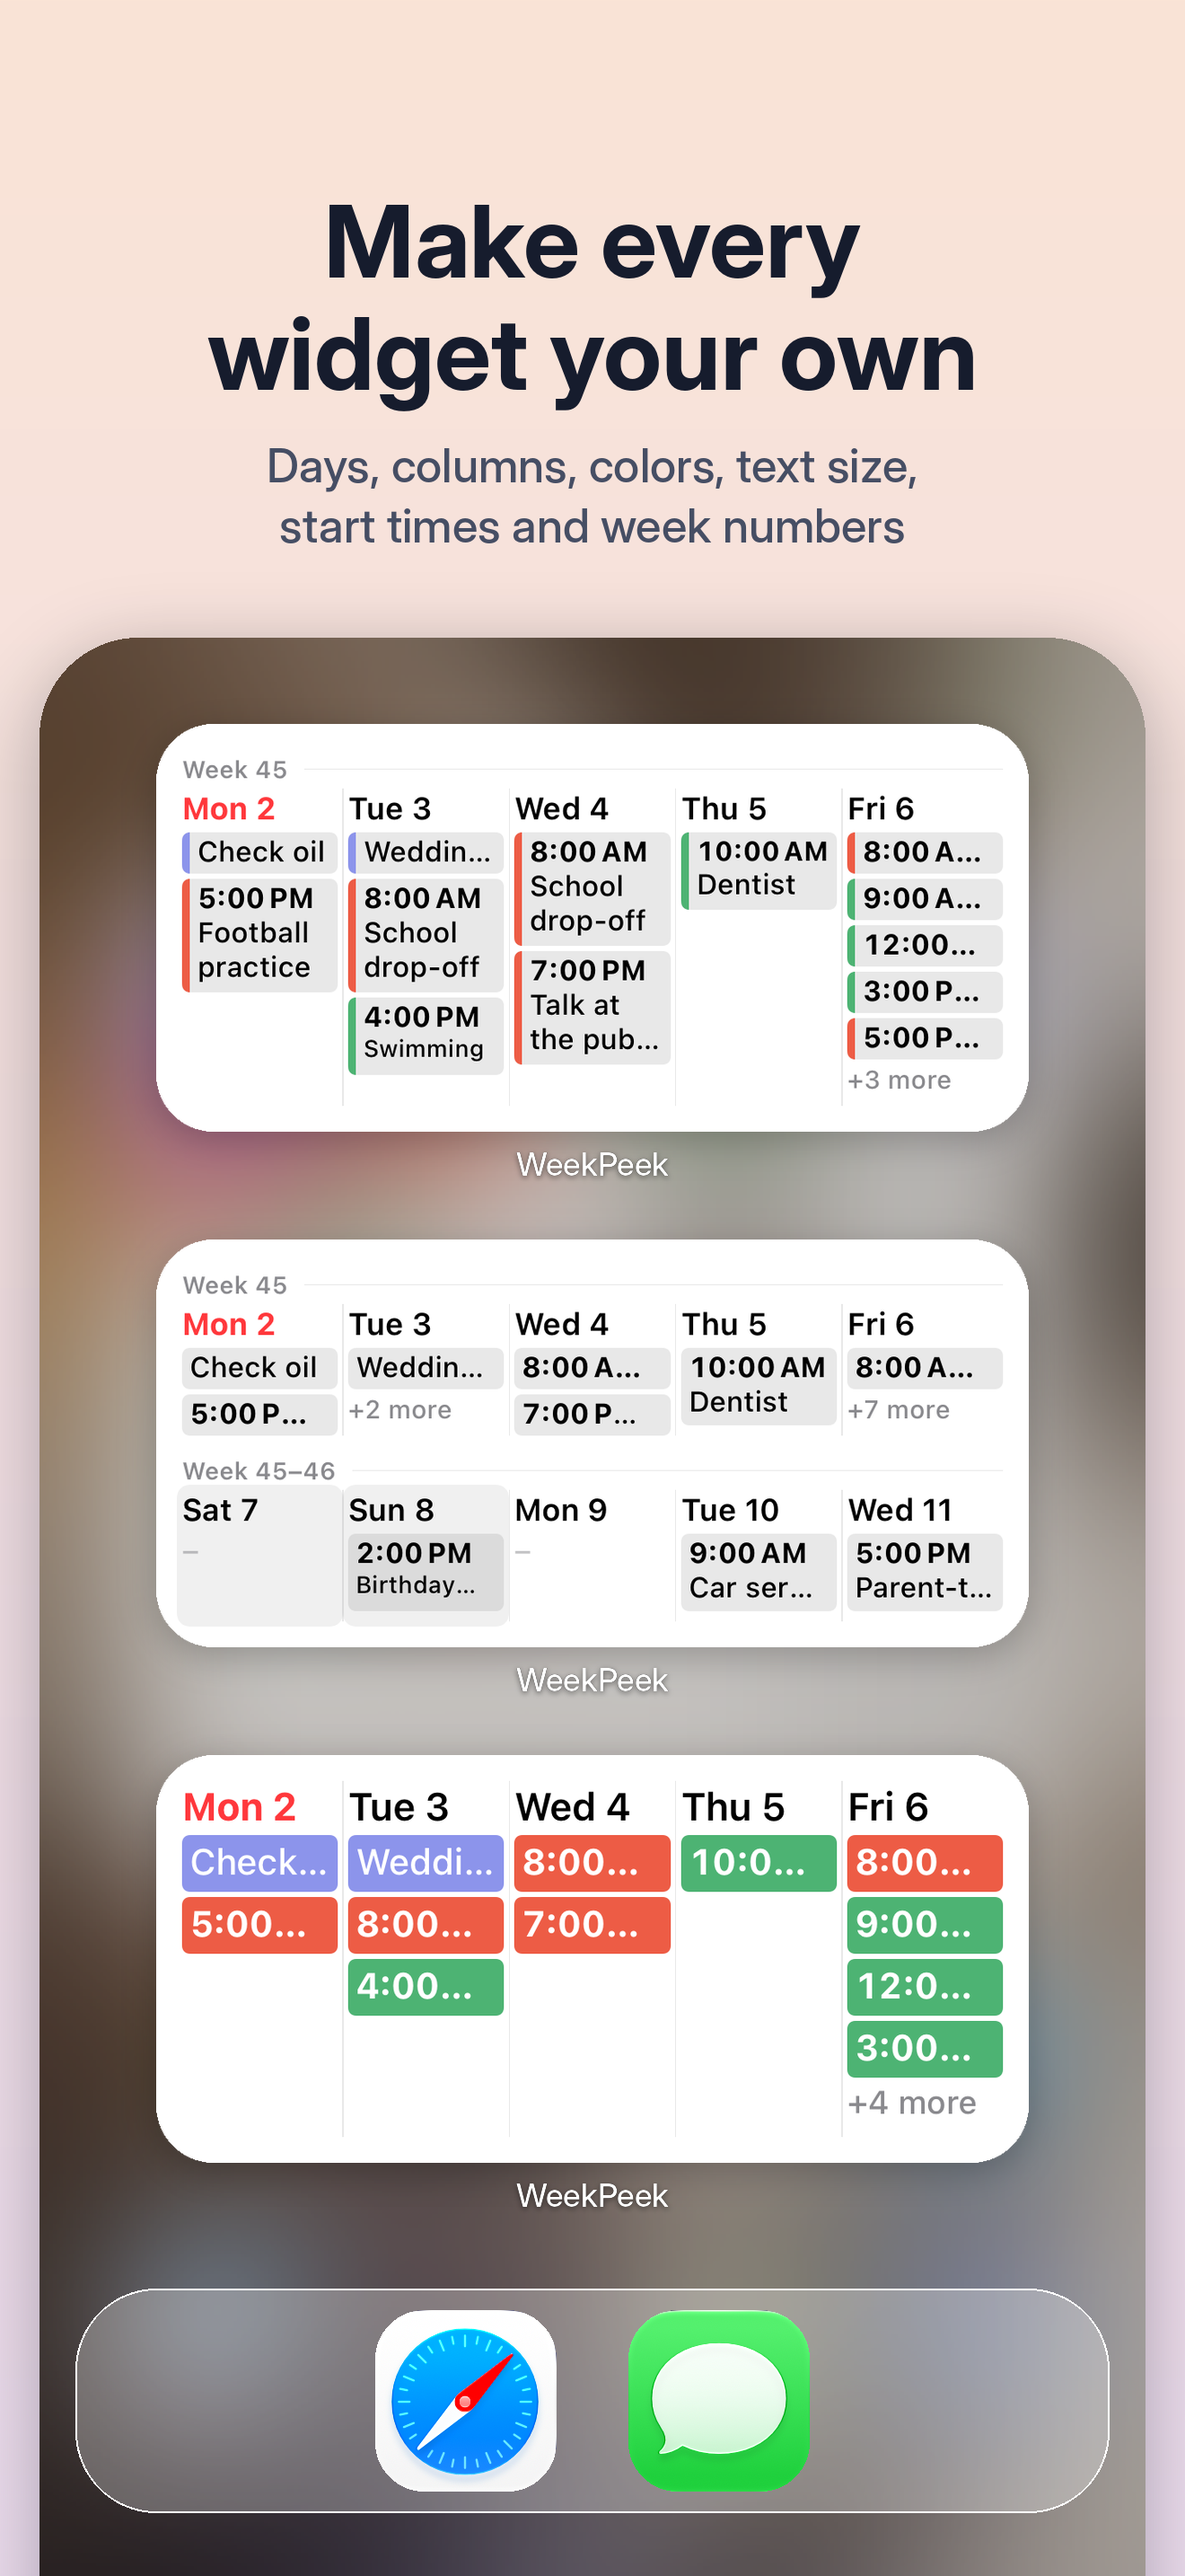
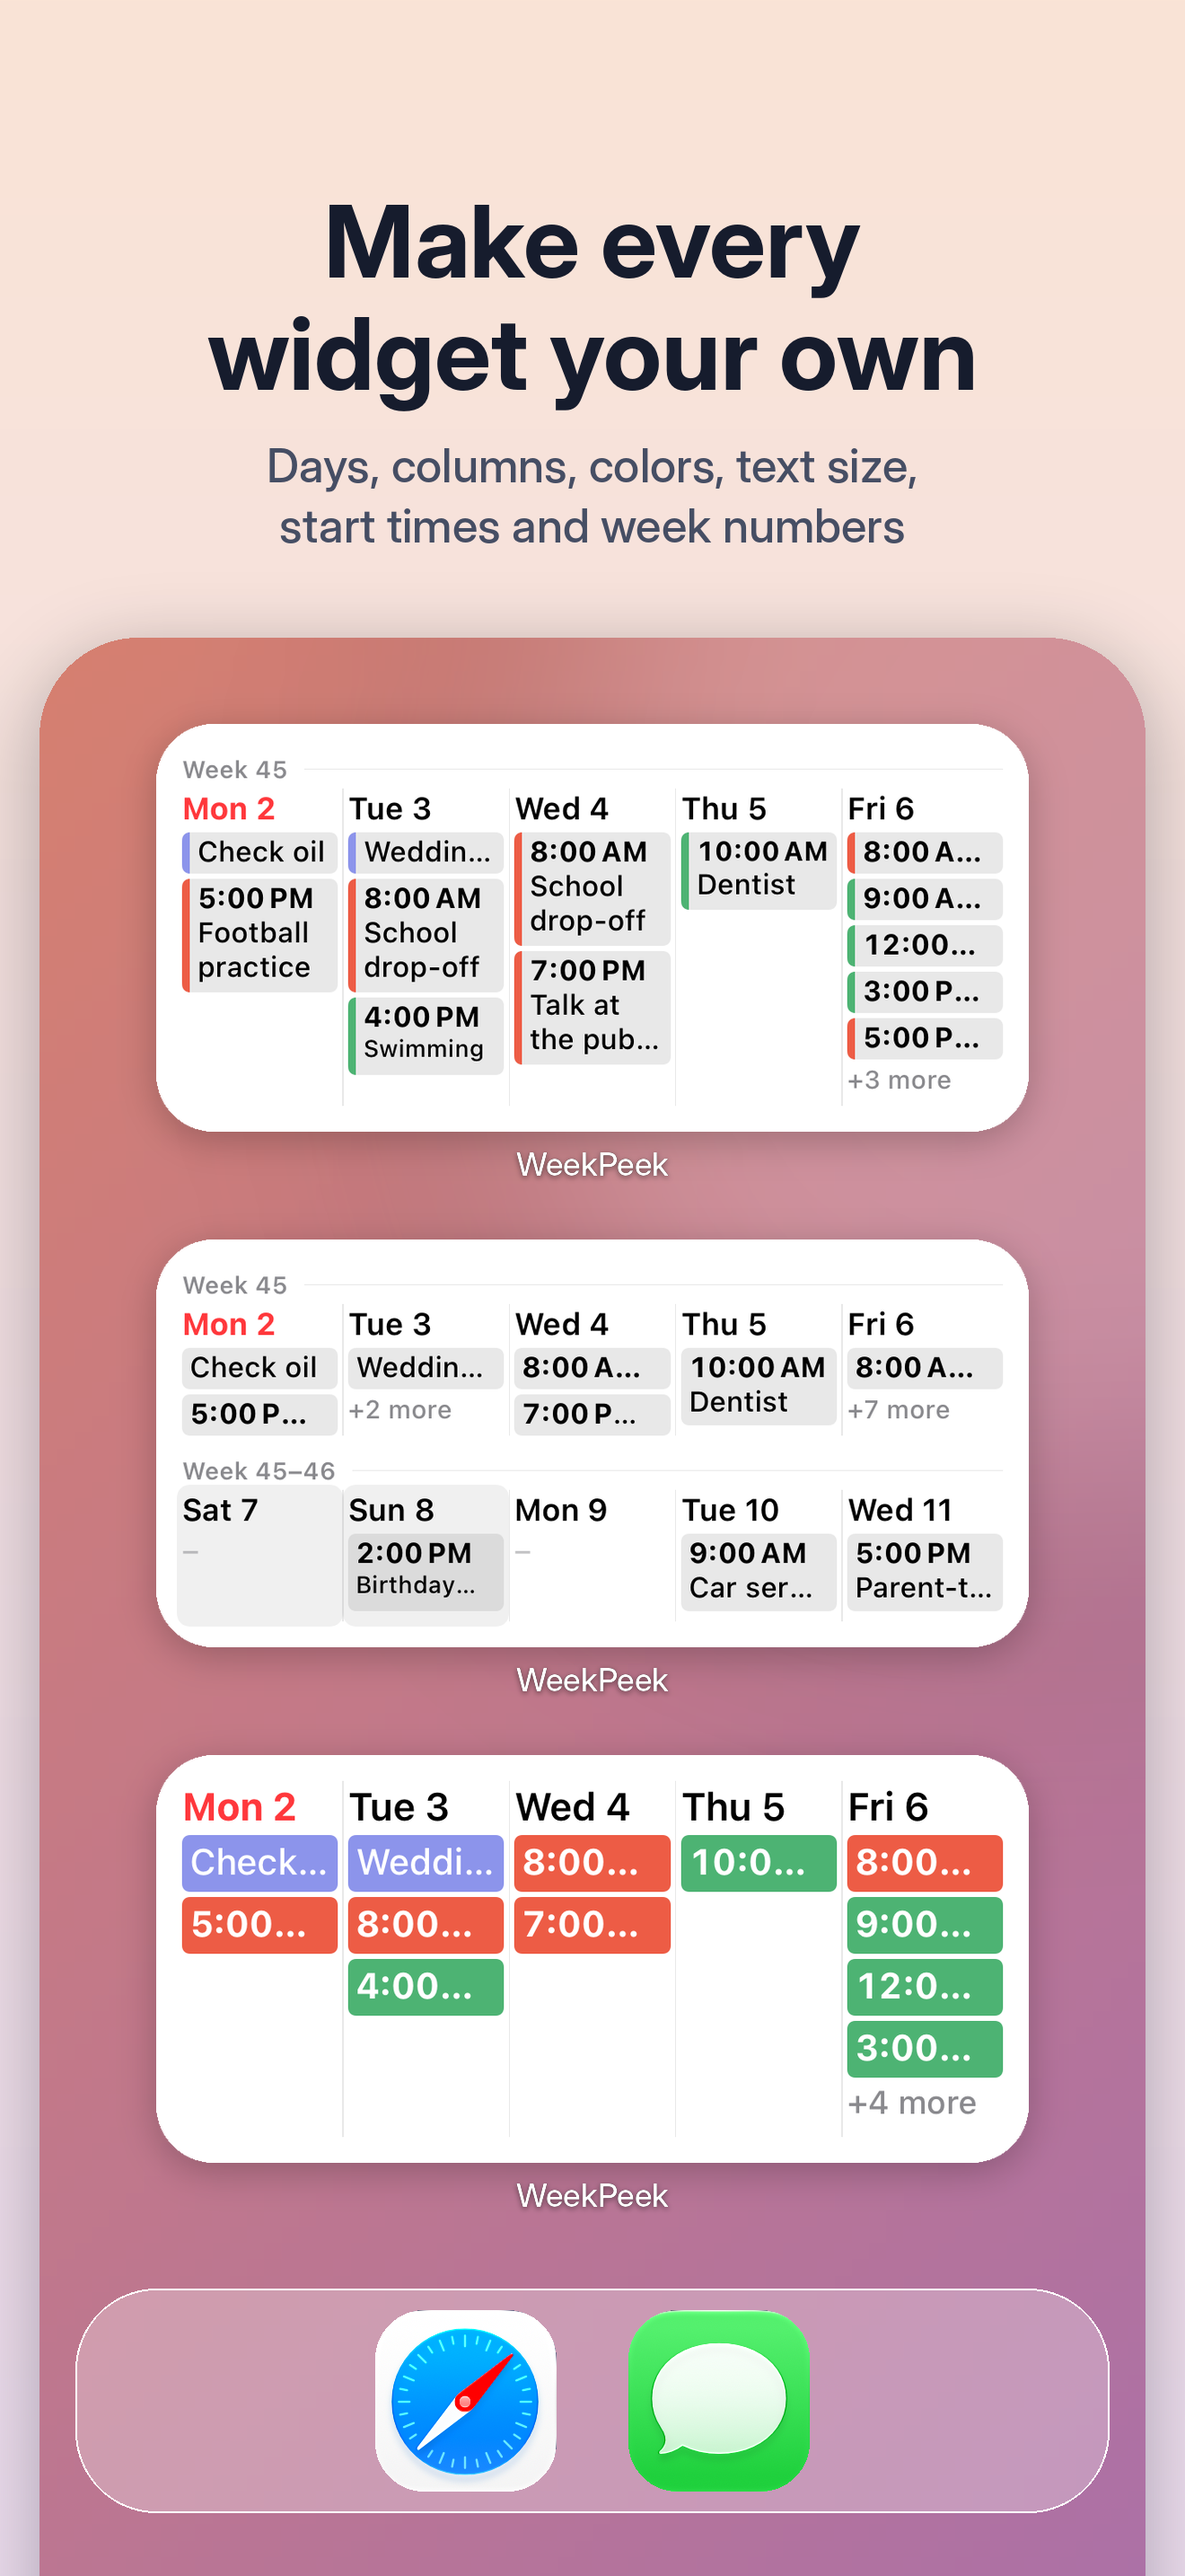
Use soft gradient wallpapers in the App Store screenshots
Claude-Session: https://claude.ai/code/session_01VAJTrQ5TsadPSz7xXKVai5

diff --git a/docs/app-store.md b/docs/app-store.md
@@ -76,7 +76,7 @@ Decision: **non-trader**. The app is free with no ads, in-app purchases or subsc
 
 ## Screenshots
 
-Ready in `docs/appstore/` (6.9" iPhone, 1320 × 2868, sample events only). Headline on a pastel background above a Home Screen: the real Simulator wallpaper (blurred), real app icons and dock, and the widgets from the render tests with their "WeekPeek" label.
+Ready in `docs/appstore/` (6.9" iPhone, 1320 × 2868, sample events only). Headline on a pastel background above a Home Screen: a soft gradient wallpaper, real app icons and dock, and the widgets from the render tests with their "WeekPeek" label.
 
 1. `1-week.png`: Your week at a glance (large widget)
 2. `2-styles.png`: Light, dark or tinted
